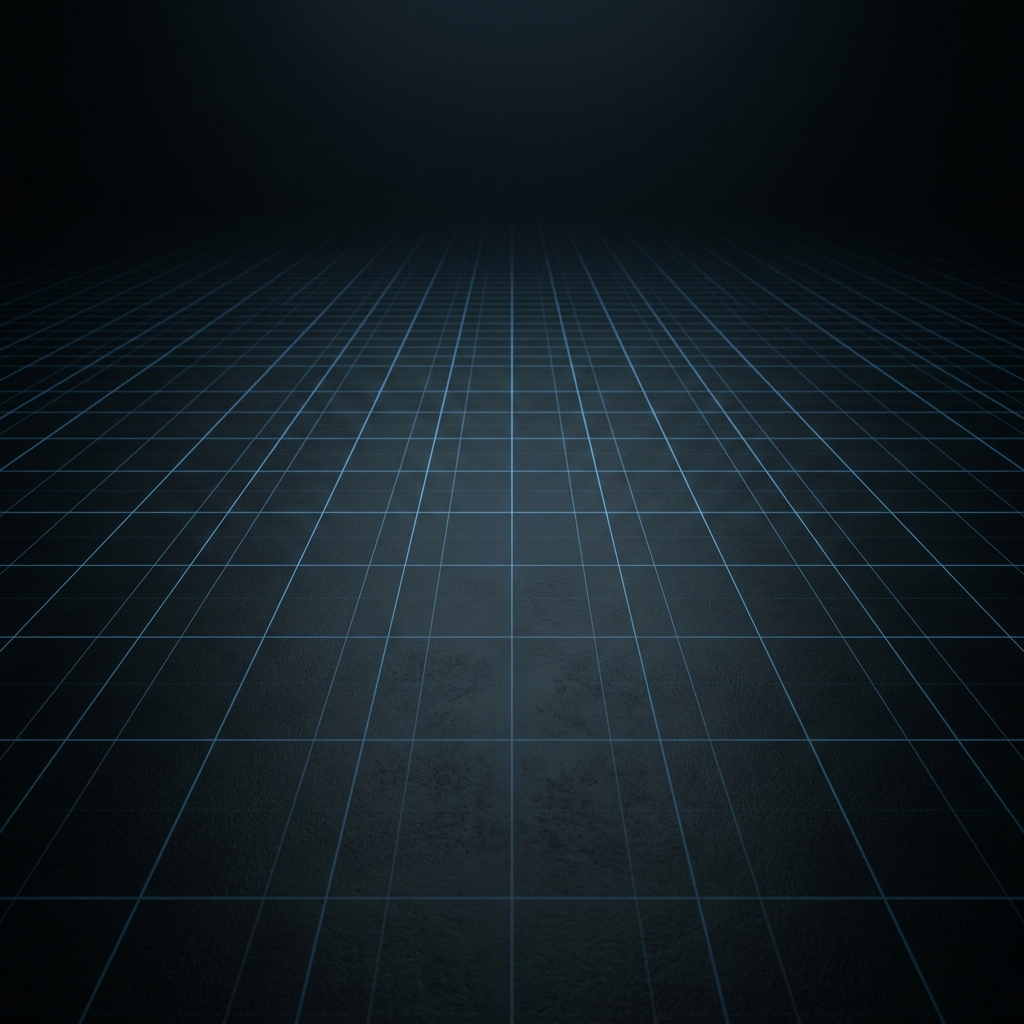
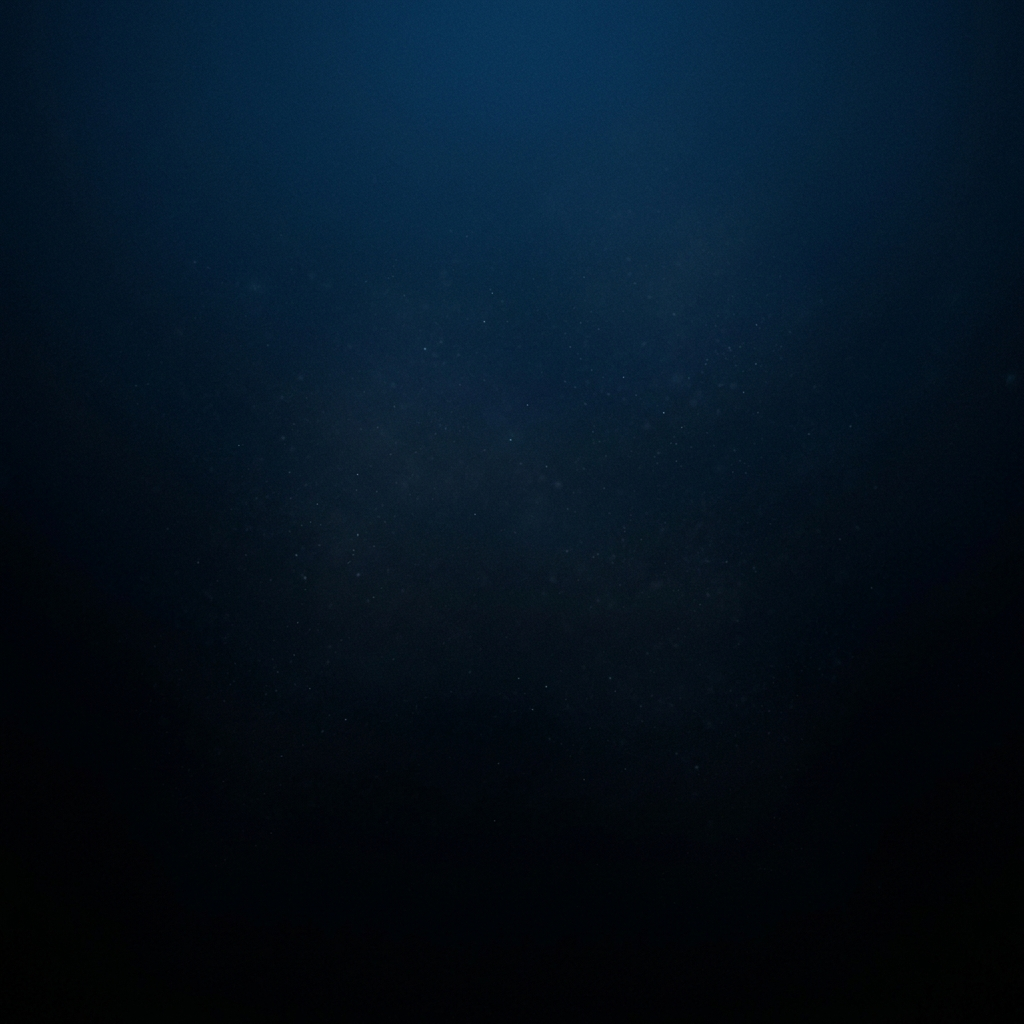
fix: デュエル背景のグリッドを削除し、各画面のコンテナ背景を透過して背景画像が見えるように修正

diff --git a/deck_builder.css b/deck_builder.css
@@ -6,7 +6,7 @@
     flex-direction: column;
     height: 100%;
     width: 100%;
-    background-color: #0a0a0a;
+    background-color: transparent;
     color: #f0f0f0;
     overflow: hidden;
     position: relative;
@@ -22,7 +22,7 @@
     justify-content: space-between;
     align-items: center;
     padding: 0 10px;
-    background: #151515;
+    background: rgba(21, 21, 21, 0.8);
     border-bottom: 1px solid #333;
     flex-shrink: 0;
 }
@@ -60,7 +60,7 @@
     padding: 6px 12px;
     border-radius: 4px;
     border: 1px solid #444;
-    background: #222;
+    background: rgba(34, 34, 34, 0.8);
     color: #fff;
     font-size: 0.75rem;
     cursor: pointer;
@@ -79,7 +79,7 @@
 /* --- 2. Current Deck Area (Top) --- */
 .current-deck-area {
     flex: 0 0 25%; /* 画面の25% */
-    background: #1a1a1a;
+    background: rgba(26, 26, 26, 0.75);
     border-bottom: 1px solid #333;
     display: flex;
     flex-direction: column;
@@ -88,7 +88,7 @@
 
 .deck-stats-bar {
     height: 24px;
-    background: #222;
+    background: rgba(34, 34, 34, 0.8);
     display: flex;
     align-items: center;
     justify-content: space-between;
@@ -146,7 +146,7 @@
 /* --- 3. Detail Area (Middle) --- */
 .builder-detail-area {
     flex: 0 0 20%; /* 画面の20%で固定。中身が長くてもこの高さは超えない */
-    background: rgba(20, 20, 20, 0.95);
+    background: rgba(20, 20, 20, 0.7);
     border-bottom: 1px solid #333;
     display: flex;
     padding: 8px;
@@ -256,14 +256,14 @@
     flex: 1;
     display: flex;
     flex-direction: column;
-    background: #000;
+    background: rgba(0, 0, 0, 0.7);
     overflow: hidden;
 }
 
 /* 横スクロールさせず、狭い画面では折り返して全部見えるようにする */
 .library-filter-bar {
     padding: 6px;
-    background: #222;
+    background: rgba(34, 34, 34, 0.8);
     border-bottom: 1px solid #333;
     display: flex;
     flex-wrap: wrap;
@@ -418,7 +418,7 @@
 
 /* デッキ管理画面用スタイル */
 .deck-manage-item {
-    background: #222;
+    background: rgba(34, 34, 34, 0.8);
     border: 1px solid #444;
     border-radius: 8px;
     padding: 10px;

diff --git a/style.css b/style.css
@@ -720,7 +720,7 @@ body {
 
 /* メニュー画面はindex.htmlのクラスを使用 */
 #menu-screen.active {
-    background: radial-gradient(circle at center, #1a1a1a, #000);
+    background: radial-gradient(circle at center, rgba(26, 26, 26, 0.6), rgba(0, 0, 0, 0.8));
     display: flex;
     flex-direction: column;
     justify-content: center;
@@ -1413,7 +1413,7 @@ body {
  * 画面自体はスクロールさせない。デッキ一覧だけをスクロール領域にすることで、
  * デッキが増えてもタイトルが押し上げられて画面外に消えることがなくなる。 */
 #deck-select-screen.active {
-    background: radial-gradient(circle at center, #1a1a1a, #000);
+    background: radial-gradient(circle at center, rgba(26, 26, 26, 0.6), rgba(0, 0, 0, 0.8));
     display: flex;
     flex-direction: column;
     justify-content: flex-start;
@@ -1690,7 +1690,7 @@ body {
 #tutorial-screen.active {
     display: flex !important;
     justify-content: center;
-    background: radial-gradient(circle at center, #1a1a1a, #000);
+    background: radial-gradient(circle at center, rgba(26, 26, 26, 0.6), rgba(0, 0, 0, 0.8));
 }
 
 #tutorial-view {
@@ -1699,7 +1699,7 @@ body {
     height: 100%;
     display: flex;
     flex-direction: column;
-    background: #0a0a0a;
+    background: rgba(10, 10, 10, 0.7);
     padding-top: env(safe-area-inset-top);
     padding-bottom: env(safe-area-inset-bottom);
 }
